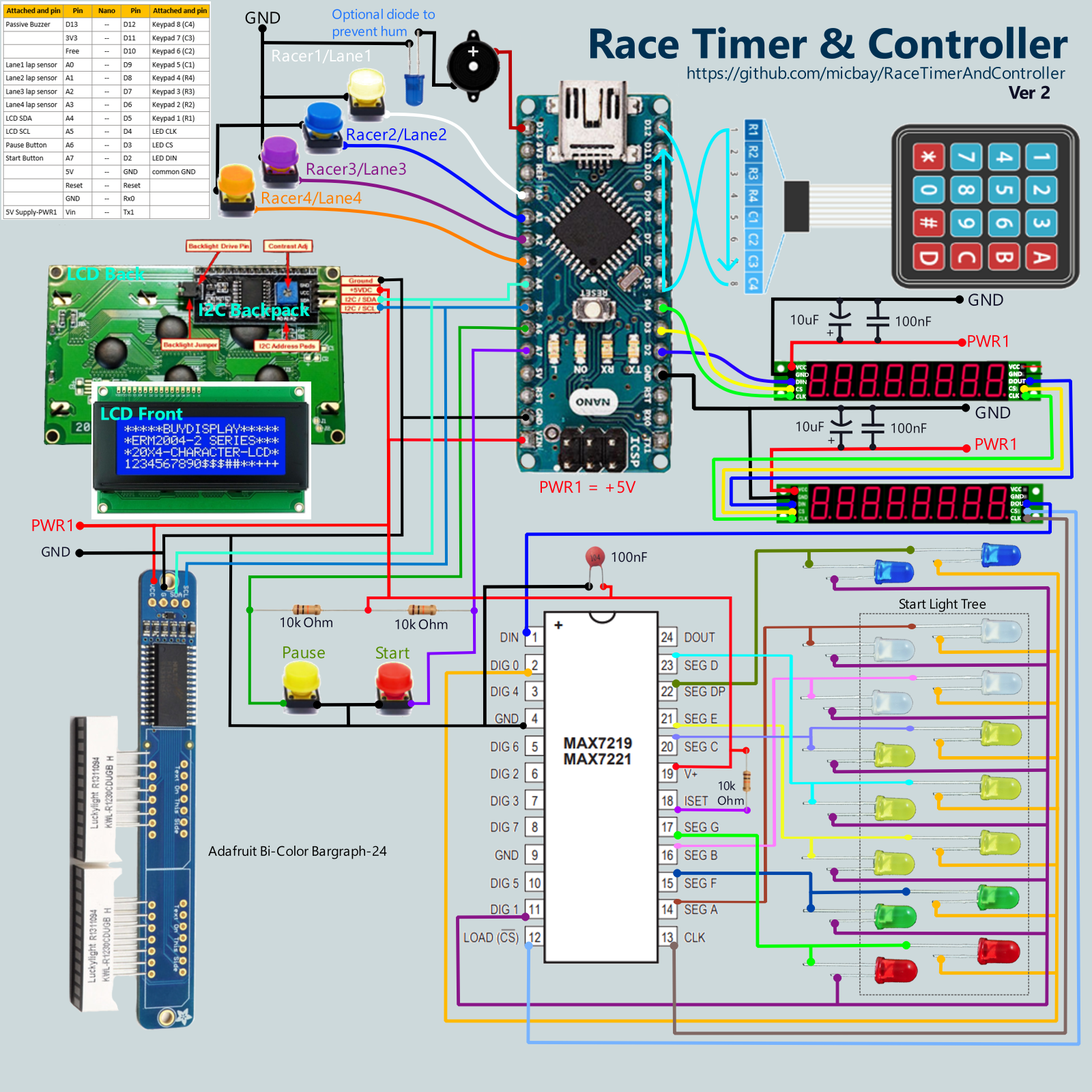
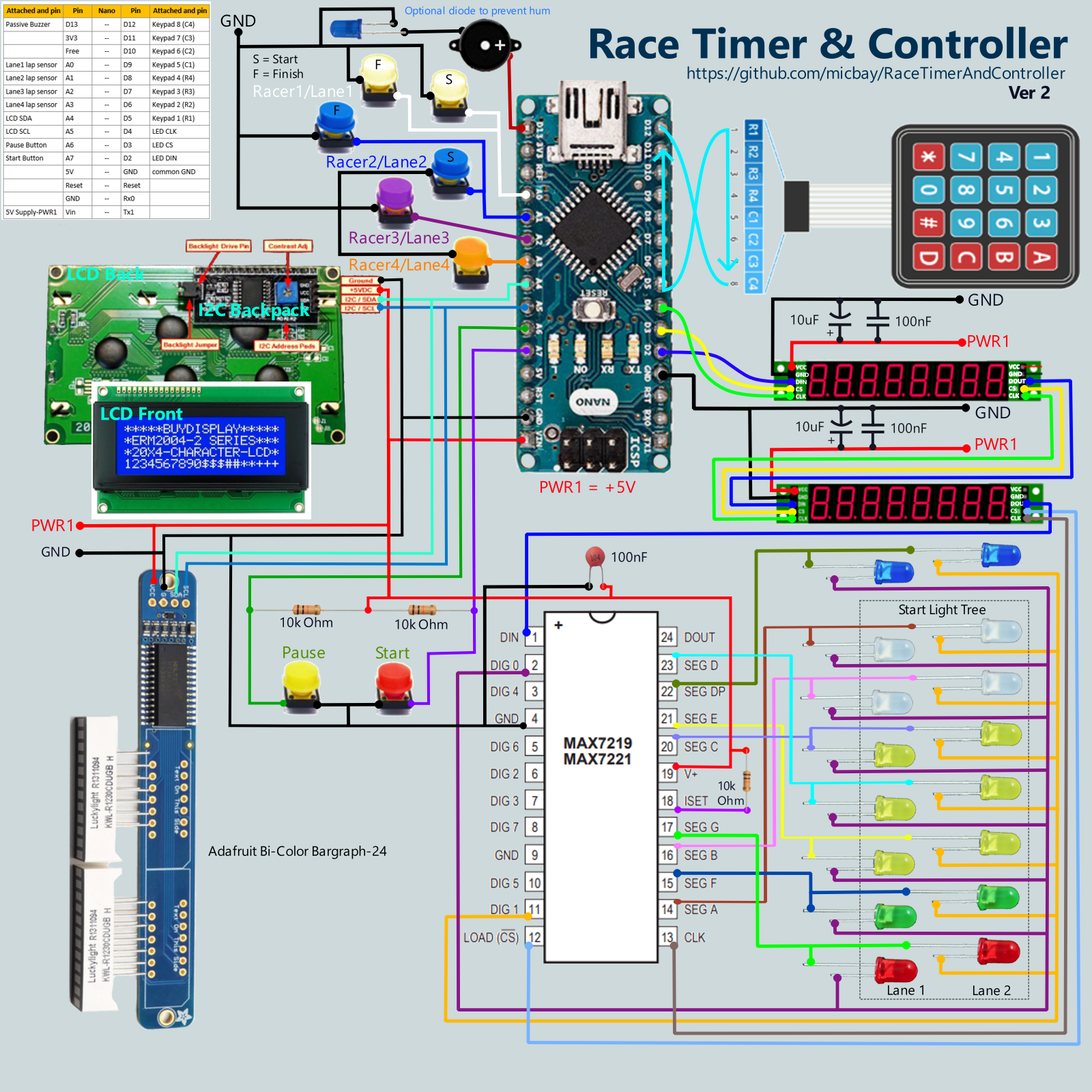
Updates to the readme documentation to better support new V2 features.

diff --git a/README.md b/README.md
@@ -10,17 +10,18 @@ NOTE: the video demo is of an earlier version of the system. With the release of
 1. [Introduction](#introduction)
     - [Prerequisites](#prerequisites) 
 2. [Hardware Configuration](#hardware-configuration)
-    - [Wiring Diagram](#wiring-diagram)
     - [Pin Out for Arduino Nano](#pinout-for-wiring-arduino-nano)
+    - [Wiring Diagram](#wiring-diagram)
     - [Adjustments for Using ATMega2560 Based Arduino Instead](#changes-if-using-atmega2560-microcontroller-based-module)
 3. [Software Configuration](#software-configuration)
 4. [The Main Display (LCD2004 + I2C Backpack)](#main-display)
     - [Creating Custom Characters](#custom-characters)
 5. [Racer Lap Timers (8-digit, 7-seg LED Bar)](#lap-timers)
-6. [DIY MAX7219 Based Start Light Tree](#diy-max7219-based-start-light-tree)
+    - [ Customization of LedControl library ](#customization-of-the-ledcontrol-librarys-character-table) - to display certain missing characters on 7-seg LED digits, replace `LedControl` library character table with an [updated table](#updated-chartable-to-replace-the-one-found-in-ledcontrolh).
+6. [DIY MAX7219 Start Light Tree](#diy-max7219-start-light-tree)
 7. [Adafruit Bi-Color Bargraph-24 as a Start Light](#adafruit-bi-color-bargraph-24-as-a-start-light)
 8. [The Keypad](#the-keypad)
-9. [Lap/Gate Sensing](#gate-sensing)
+9.  [Lap/Gate Sensing](#gate-sensing)
 10. [Sensor Options](#sensor-options)
 11. [Analog Pause and Start Buttons](#analog-pause--start-buttons)
 12. [Playing Audio](#playing-audio)
@@ -76,15 +77,15 @@ The parts required for the base system are listed below. These will support all 
 - Passive Buzzer or speaker
   - The 7-seg LEDs induced a hum on my buzzer, I used a diode on one lead to eliminate it.
 - 2-4 Analog or digital lap sensors/switches/buttons, 1 for each lane.
-    - (optional) +2 drag race finish sensors - Drag racing can be setup to use just a finish sensor, however, to support the default start & finish drag sensing, add 2 more sensors that will share the same pins as the start sensors for lanes 1 & 2.
+    - (optional) +2 drag race finish sensors - Drag racing can be setup to use just a finish sensor, however, to support the default start & finish drag sensing, add 2 finish sensors that will share the same pins as the start sensors for lanes 1 & 2.
 - 2 momentary switches for a 'Pause' and optional 'Start' button.
-  - 10k Ohm Pull-Up resistor to adapt button for analog input on A6
+  - 10k Ohm Pull-Up resistor for each analog input (button) on `A6` and/or `A7`.
 - Jumper leads to wire connections between peripherals & Arduino
 
-### **Supported Start Light Configurations**
+## Supported Start Light Configurations
 Starting with Ver2.0, this controller will support using an Adafruit Bi-color Bargraph-24, and/or, a custom built LED light tree that can be assembled using standard LED components and a MAX7219 serial dirver.
 
-### Custom Start Light Tree Parts
+### DIY MAX7219 Light Tree Parts
 These are all the parts required to build a custom start light tree. For further details, see section: [DIY MAX7219 Based Start Light Tree](#diy-max7219-based-start-light-tree).
 - [MAX7219 Serial LED driver chip](https://www.amazon.com/Bridgold-MAX7219CNG-MAX7219-Serially-Interfaced/dp/B0BK6XC4P8/ref=sr_1_3?keywords=max7219&sr=8-3) - ([datasheet](https://www.analog.com/media/en/technical-documentation/data-sheets/MAX7219-MAX7221.pdf)) same chip used by the pre-packaged LED bars.
 - 4 White LEDs
@@ -460,7 +461,7 @@ To edit the displayed character shape, we can edit the code value of the corresp
 |---|--|
 | <img style="width:400px" src="Images/7-seg-digit-mapping-Edemo.png" /> | The requested character's [ASCII Value](https://www.ascii-code.com/) determines the index of the array, `charTable[]`, that has the code value, indicating which segments to light up, to draw the character. <br> For example, to set what is drawn when instructing the LED to draw a capital 'E', we look up its ASCII value, which is `69`. Then go to the value at `charTable[69]`, and set the code value to **`B01001111`**.  <br> Following the format, `B0abcdefg`, this will instruct segments a, d, e, f, and g to turn on. |
 
-### **charTable[] from LedControl.h (modified)**
+### **Updated `charTable[]` to Replace the One Found in `LedControl.h`**
 ```cpp
 const static byte charTable [] PROGMEM  = {
   //00  0         1         2          3        4         5         6         7
@@ -498,27 +499,41 @@ const static byte charTable [] PROGMEM  = {
 
 <br>
 
-# **DIY MAX7219 Based Start Light Tree**
+# **DIY MAX7219 Start Light Tree**
 This project supports using a custom MAX7219 based, LED tree as a start light for circuit style, and drag style racing. By using a MAX7219 we keep this tree compatible with the SPI bus used by the 7-segment display chain, and thus will require no extra pins to integrate into the system.
 
-The [Wiring Diagram](#wiring-diagram) for this project illustrates the wiring of this start tree for a 2 racers/lane track. If setting up a system with a different number of lanes, make sure the MAX start tree is the last device in the Racer timer LED display chain. The controller will assume that there is a timer display for each racer defined by the `LANE_COUNT` setting. If the system lane count is 3 or 4, but there are only 2 timer displays, and then the start tree, the start tree will light according to an expected 3rd racer timer display, instead of the intended pre-start countdown light.
+The project [Wiring Diagram](#wiring-diagram) includes the wiring layout for this start tree, and its integration into a 2 racer/lane track. If setting up a system with a different number of lanes, make sure this, MAX7219 start tree, is the last device in the Racer timer LED display chain. The controller will assume that there is a timer display for each racer defined by the `LANE_COUNT` setting. If the system lane count is 3 or 4, but there are only 2 timer displays, and then the start tree, the start tree will light according to an expected 3rd racer timer display, instead of the intended pre-start countdown light.
 
-The start tree consists of 8 LEDs for each lane. From top to bottom should be wired 7 pairs, starting with 2 white LEDs to indicate Pre-Stage, and Staged phases of a race, then 3 amber LEDs that light up for the final 3 intervals before the race start, followed by a single green LED that lights upon start. Finally a red LED pair ends the column that alerts which lane triggered a fault. 2 additional blue LEDs can be wired that indicate which lane is the winner in a drag race. By default the timing of the interval for a **circuit race** pre-start, is **1.0 sec**, and for a **drag race**, the pre-start intervals change every **0.5 sec**.
+## **MAX7219 Start Light Pinout**
+The start tree consists of 8 LEDs for each lane. The traditional assembly orients them into two columns of 7 lights, arranged in order of the pinout diagram below. Two additional blue (or any other desired color) LEDs can be wired as drag race 'winner' indicators. These could be added to the start light tree, or placed at the finish line.
 
-See the [Drag Racing Start Light Indicator](#drag-race-start-light-indicators) section for illustrations of the described setup.
+Order | Indicator | color |Lane 1+(long) |Lane 1-(short) |Lane 2+(long) |Lane 2-(short)  
+---|-------------|-------|-----------|-----------|-----------|---
+1  | Pre-Stage   | White | 14 (segA) | 2 (dig0)  | 14 (segA) | 11 (dig1)
+2  | Staged      | White | 16 (segB) | 2 (dig0)  | 16 (segB) | 11 (dig1) 
+3  | Interval 1  | Amber | 20 (segC) | 2 (dig0)  | 20 (segC) | 11 (dig1) 
+4  | Interval 2  | Amber | 23 (segD) | 2 (dig0)  | 23 (segD) | 11 (dig1) 
+5  | Interval 3  | Amber | 21 (segE) | 2 (dig0)  | 21 (segE) | 11 (dig1) 
+6  | Start       | Green | 15 (segF) | 2 (dig0)  | 15 (segF) | 11 (dig1) 
+7  | Fault       | Red   | 17 (segG) | 2 (dig0)  | 17 (segG) | 11 (dig1) 
+NA | Winner      | Blue  | 22 (DP)   | 2 (dig0)  | 22 (DP)   | 11 (dig1) 
 
-On bootup, and while in the `Menu` state, the 3 yellow pre-start, interval lights will be lit, indicating an idle system.
+A **100nF** capacitor should be added across the V+ and GND to help mitigate electromagnetic noise effects. If lights are flickering, consider also adding a 10uF, polarized capacitor as well.
+
+A **10kOhm** resistor is added between the Iset pin and V+ to limit the peak current through the LED segments. In effect this will also control brightness.
+
+On bootup, and while in the `Menu` state, the 3 yellow pre-start, interval lights will be lit, indicating an idle system. See the [Racing](#racing) section for more details of light tree indicator states.
 
 ![MAX Start Light](Images/MAX_LED_Start_Tree-full-w600px.png))
 
 <br>
 
 # **Adafruit Bi-Color Bargraph-24 as a Start Light**
-In place of, or addition to, a MAX7219 tree, this project also supports the use of an [Adafruit Bi-Color Bargraph-24, With I2C backpack kit](https://www.adafruit.com/product/1721) as a startlight. This start light is I2C compatible, and as such, can share the same pins as the main LCD display.
+In place of, or addition to, a MAX7219 tree, this project also supports the use of an [Adafruit Bi-Color Bargraph-24, With I2C backpack kit](https://www.adafruit.com/product/1721) as a start light. This start light is I2C compatible, and as such, can share the same pins as the main LCD display.
 
 The project [Wiring Diagram](#wiring-diagram) illustrates the Bargraph integration.
   
- - This is an I2C compatible, fully assembled LED light bar with 24 segments. Each segment has a Green, and a Red, LED, which can be lit to create red, yellow, or green.
+ - This is an I2C compatible, fully assembled, LED light bar with 24 segments. Each segment has a green, and a red, LED, which can be lit to create red, yellow, or green.
 
 ![Bootup Idle Bargraph-24](Images/Adafruit_Bargraph_FullAssy_800x100.png)
 
@@ -598,6 +613,7 @@ This project was originally designed for slot car racing, and as such, is a lane
 When a trigger occurs on a signal pin, a special immediately executing interrupt function, the `ISR()` will run. Within this function, the game controller will read, from the hardware registry, a single byte that represents the trigger state of every pin among an associated block of pins.
 
 In the case of the Arduino Nano, we are using a physical block of pins called `Port C`, that includes analog pins `A0-A3`, and whose state are represented by the registry byte, `PCINT1_vect`. This is how the game controller will determine when laps have been completed and which lanes, which triggers are related to.
+
 > ***Avoiding Unwanted Triggers*** - Because an interrupt is triggered by any measurable signal change, it's important that care is taken to minimize the chance that stray electromagnetic interference could induce a false trigger signal, unrelated to a valid lap completion.
 > 
 > Folks having issues with false triggers can try some of the following techniques, that are commonly used to reduce, or eliminate, electrical noise from a system:
@@ -608,6 +624,14 @@ In the case of the Arduino Nano, we are using a physical block of pins called `P
 >- [Using ferrites](https://article.murata.com/en-us/article/basics-of-noise-countermeasures-lesson-8)
 >- Use [shielded leads](https://www.azosensors.com/article.aspx?ArticleID=724) (ideally shielding is grounded)
 >- Make sure everything is well grounded, and isolated from, radiated and conducted noise, but [avoid ground loops](https://en.wikipedia.org/wiki/Ground_loop_(electricity)).
+
+## **Drag Racing Sensor Setup**
+By default the controller is configured to expect both a start and finish sensor for each drag race lane. The start sensor is used to detect false starts, and the finish sensor used to detect the winner. The start and finish sensors for a given lane should share the same input pin on the Arduino.
+
+<img src="Images/Drag_Trigger_Diagram_Isolated.png" alt="Drag Trigger Diagram" width="600px">
+
+For users who only have 1 set of sensors, the system can be configured to support drag racing with finish line sensors only. If set for finish sensors only, false starts will not be detectable.
+- Set `SINGLE_DRAG_TRIGGER` to be `true` in `localSettings.h` to configure the controller for finish sensor only, drag racing.
 
 ## **Relationship Between Racers/Lanes and Interrupt Hardware**
 For the [ATMega328](https://www.microchip.com/en-us/product/ATmega328) based Nano we have chosen to use pins `A0-A3` as the physical wire inputs for the lap trigger signals representing racers/lanes 1-4. A `lanes[]` array constant will be used to map the association of physical hardware pins with the Racer/Lane they will represent.
@@ -701,7 +725,7 @@ Because these interrupts will trigger on each, and every, signal change event, w
 
 To filter extra bounce triggers, we set a debounce time after the initial detection, within which any re-triggers on the same pin are ignored. Each lap trigger pin has its own timing array, so while the debounce period may be active for one pin causing it to be ignored, another may be newly triggered and will be accepted.
 
-Currently the default debounce is set to 1sec (1000ms). This is a bit excessive for a debounce period, but laps are still much longer than this. If this time is an issue, it can be changed by, uncommenting, and then editing the `DEBOUNCE` setting in the `localSettings.h` file.
+Currently the default debounce is set to 500ms. If this time is an issue, it can be changed by, uncommenting, and then editing the `DEBOUNCE` setting in the `localSettings.h` file.
 
 > If the `localSettings.h` file does not exist, create one, by copying `example.localSettings.h` and renaming it to `localSettings.h`.
 
@@ -845,13 +869,7 @@ ISR (PCINT1_vect) {   // for Nano
 # **Sensor Options**
 In the breadboard layout and wiring diagram push buttons are used to simulate lap triggers. In practice, since essentially, any signal change, on the pin will be considered a gate trigger, a countless number of analog or digital triggering methods can be used. Anything from a homemade circuit completion trigger switch, to a motion detection IC, can be adapted for use with this project.
 
-> ## **Drag Racing Sensor Setup**
-> By default the controller is configured to expect both a start and finish sensor for each drag race lane. The start sensor is used to detect false starts, and the finish sensor used to detect the winner. The start and finish sensors for a given lane should share the same input pin to the same Arduino.
-
-> For users who only have 1 set of sensors, the system can be configured to support drag racing with finish line sensors only. If set for finish sensors only, false starts will not be detectable.
-> - Set `SINGLE_DRAG_TRIGGER` to be `true` in `localSettings.h` to configure the controller for finish sensor only, drag racing.
-
-It's not possible to review possible sensor options. However, to provide some starting points, below is a brief list of potential switch options to consider or adapt.
+It's not possible to review all potential sensor options. However, to provide some starting points, below is a brief list of potential switch options to consider or adapt.
 
 The [Drag-It-Anywhere track sensor page](https://dragitanywhere.com/track-sensors/) is also a good place to start.
 
@@ -864,15 +882,13 @@ The [Drag-It-Anywhere track sensor page](https://dragitanywhere.com/track-sensor
 
 <table>
   <tr>
-    <th style="width:35%"></th>
+    <th style="width:25%"></th>
   </tr>
   <tr>
     <td>
-      Adafruit Bargraph fault on lane 2
       <img src="Images/submini_body.png"  alt="1" Width="500px">
     </td>
     <td>
-      MAX-LED Tree fault on lane 2, just after 3rd amber interval
       <img src="Images/submini_schematic.png"  alt="1">
     </td>
   </tr>
@@ -881,6 +897,20 @@ The [Drag-It-Anywhere track sensor page](https://dragitanywhere.com/track-sensor
 <!-- ![Rigged Lap Counter](Images/submini_body.png)
 ![Rigged Lap Counter](Images/submini_schematic.png) -->
 ![Rigged Lap Counter](Images/submini_specs.png)
+
+
+## Photodetection
+> This approach can be handled in a number of ways, but consists of placing a light sensor in the track such that it becomes shaded by a car passing over it. This arrangement can be setup to sense ambient light, or specifically infrared. Usually a flood light, emitting the sensed wavelengths, is used to illuminate the sensor areas, to maximize consistency of lighting conditions.
+>
+> **Photoresistor** - a photoresistor component can be wired to trigger a lap on any measurable change in ambient light intensity. With interrupts, this might be tricky to calibrate such that changes in room lighitng are not mistaken for a passing car. Adding a lamp or spotlight flooding the sensor region can mitigate such issues.
+
+> **IR sensor** - An IR photodetection approach takes exactly the same principle, and parts, used by pre-assmbled IR sensor modules ([example1](https://circuitdigest.com/microcontroller-projects/interfacing-ir-sensor-module-with-arduino), [example2](https://components101.com/sensors/ir-sensor-module)), except instead of having the emitter and receiver next to each other, the emitter is a seperate flood light, and the sensor is placed into the track. Trackmate sells an assembled [IR Flood Light](https://trackmateracing.com/shop/en/lap-counter-parts/221-1241-infrared-flood-bar-diy.html#/153-flood_bar_length-6_inches_152mm) and [IR sensor components](https://trackmateracing.com/shop/en/lap-counter-parts/19-infrared-sensors.html), that use this technique.
+> 
+> >
+> | | |  
+> |---|---|
+> |Photoresistors on ([Adafruit](https://www.adafruit.com/product/161), [Amazon](https://www.amazon.com/Photoresistor/s?k=Photoresistor), [digikey](https://www.digikey.com/en/products/filter/optical-sensors-photo-detectors-cds-cells/540)) | [IR emitter and sensor kit](https://www.amazon.com/Emitter-Receiver-VS1838B-Infrared-Raspberry/dp/B07TLBJR5J/ref=sr_1_13?keywords=ir+sensor&sr=8-13)|
+> | <img src="Images/photoresistor.png" alt="photoresistor" height="200px"> | <img src="Images/IR_sensor.png" alt="IR Sensor" height="200px"> |
 
 
 ## Magnetic Detection Switches
@@ -910,53 +940,65 @@ In the image below, two base paper clips, are wired with black leads to ground. 
 <br>
 
 # **Analog Pause & Start Buttons**  
-This project includes two analog buttons that can be used to manage an active race. One button is designated as a `Pause` button, and the other as a `Start` button. These simple switches provide a seperation of race control from the main keypad, facilitating a more flexible system setup.
+This project includes two analog buttons that can be used to manage an active race. One button is designated as a `Pause` button, and the other as a `Start` button. These behave as simple switches, and provide a seperation of race control from the main keypad, facilitating a more flexible system setup.
 ### **The Pause Button**
-The `Pause` button is used to pause and restart an active race, and as an exit button, alternative to the `*` key, from the `PreStage` or `Finished` states, or to clear a `Fault`. 
+The `Pause` button is used to pause and restart an active race, and as an exit button alternative, to using the `*` key, to exit the `PreStage` or `Finished` states. `Pause` can also be pressed to clear a `Fault`. 
 - During a live race, pressing the `Pause` button will put the race into the `Paused` state, suspending race activity.
 - While in a `Paused` state, pressing the `Pause` button will return to the active `Race` state, or `PreStart` countdown depending on the system configuration.
 - Pressing `Pause` while in the `Staging` state (ie Pre-Stage race phase), will exit the race and return the system to the `Menu` state.
-- Pressing `Pause` while in a `Fault` state will clear the fault and return the system to the `Staged` state.
+- Pressing `Pause` while in a `Fault` state will clear the fault and return the system to the `Staging` state.
 - After a drag race heat is finished, pressing `Pause` from the drag heat result screen, will exit the race and return the system to the `Menu` state.
 
 ### **The Start Button**
 The `Start` button's primary function is to provide a means to initiate a race start from a location remote from the keypad. This is most useful for a drag race setup where start timing is a critical aspect of the race.
 - Pressing `Start` from the race Pre-Stage screen (ie in the `Staging` state) will initiate a race with the appropriate pre-start countdown.
-- Pressing `Start` while in a `Fault` state will clear the fault and return the system to the `Staged` state.
-- After a drag race heat is finished, pressing `Start` from the drag heat result screen, will return the system to the `Staged` state ready for the next heat.
+- Pressing `Start` while in a `Fault` state will clear the fault and return the system to the `Staging` state.
+- After a drag race heat is finished, pressing `Start` from the drag heat result screen, will return the system to the `Staging` state ready for the next heat.
 
 ## **Using Pins A6 & A7 as Buttons**
-For wiring a `Pause` and `Start` button, the pins we have available are, A6 and A7. Unlink the othe pins we have been using, these pins don't have an internal pull-up resistor built into the Arduino. Also, these pins can only be used as analog inputs.
+For wiring a `Pause` and `Start` button, the pins we have available are, A6 and A7. Unlike the other pins we have been using, these pins don't have an internal pull-up resistor, and they can only be used as analog inputs.
 
-In order to use them as button triggers we must add our own external Pull-Up resistors, as illustrated in the project wiring diagram, and explained in [this article](https://roboticsbackend.com/arduino-input_pullup-pinmode/). Like the keypad, to detect a press we must then pole the buttons to know if they've been pressed. In this case, since we are using analog, our input will not be just HIGH or LOW, but some value between the maximum switch voltage and zero. If the value is lower than a set threshold then we consider it pressed.
+In order to use them as button triggers we must add our own external pull-up resistors, as illustrated in the project wiring diagram, and explained in [this article](https://roboticsbackend.com/arduino-input_pullup-pinmode/). Like the keypad, to detect a press we must pole the buttons to know if they've been pressed. In this case, since we are using analog, our input will not be just HIGH or LOW, but some value between the maximum switch voltage and zero. If the value is lower than a set threshold then we consider it pressed.
 
 ```cpp
+// button pin assignments
 const byte pauseStopPin = PIN_A6;
+const byte startButtonPin = PIN_A7;
+// timestamp marking new press of pause button, used to set start of debounce period.
+unsigned long buttonDebounceMillis = 0;
+
 
 // Generic function to check if an analog button is pressed
-int buttonPressed(uint8_t analogPin) {
-  if (analogRead(analogPin) < 100){
+bool buttonPressed(uint8_t analogPin) {
+
+  unsigned long tempTime = millis();
+
+  // if below analog trigger threshold AND not within debounce time
+  if ((analogRead(analogPin) < 100) && ((tempTime - buttonDebounceMillis) > debounceTime)){
+    // Reset debounce timestatmp
+    buttonDebounceMillis = tempTime;
+    Beep();
     return true;
   }
   return false;
+
 }
 
+
+
 void setup(){
-  --- other code ---
 
   pinMode(pauseStopPin, INPUT);
+  pinMode(startButtonPin, INPUT);
 
-  --- other code ---
 }
 
 void loop(){
-  --- other code ---
   
-  if(buttonPressed){
+  if(buttonPressed(startButtonPin) || buttonPressed(pauseStopPin) ){
     --- do something ---
   }
   
-  --- other code ---
 }
 
 ```
@@ -1375,12 +1417,11 @@ void loop(){
   --- other code ---
 }
 ```
-## **Sources of tone() Array Melodies**  
+## **Sources of RTTTL Song Strings** 
 - [Online List of RTTTL Online Sources](https://www.srtware.com/index.php?/ringtones/findringtones.php)
 - [Picaxe Ringtone Download](https://picaxe.com/rtttl-ringtones-for-tune-command/) - RTTTL zip downloads 10,000+ songs
 - [dglaude/xmas.py](https://gist.github.com/dglaude/71525a07f5e24888a3f098fba3abf29b) - RTTTL Christmas songs
 
-<br>
 
 # **Audio Modes**
 This controller has 3 Audio Modes, providing users the ability to turn on and off the game feedback audio and victory songs.
@@ -1397,6 +1438,8 @@ The default audio mode used on bootup can be changed by editing the `DEFAULT_AUD
 Pressing the `# key` while in the **Menu** state, will stop any music playing. This provides users a way to stop the sample song played during racer selection, and the final racer's victory song after completion of a race, without having to let it play out to the end.
 
 At this time, this will not stop a victory song playing, while the system is in the 'race' state (ie. if all racers have not finished yet), because the keypad is not poled while in this state.
+
+<br>
 
 ---
 # **Race Controller Operation**
@@ -1546,8 +1589,8 @@ After choosing a race from the [Start a Race](#main-menu---c-start-a-race) scree
 
 <table>
   <tr>
-    <td>Bargraph all races types</td>
-    <td>MAX-LED Tree all races types</td>
+    <td>Pre-Stage Bargraph all races types</td>
+    <td>Pre-Stage MAX-LED Tree all races types</td>
   </tr>
   <tr>
     <td> <img src="Images/Adafruit_Bargraph-24_pre-stage_600x125.png"  alt="1"></td>
@@ -1555,11 +1598,11 @@ After choosing a race from the [Start a Race](#main-menu---c-start-a-race) scree
   </tr>
 </table>
 
-- ***Circuit Race Pre-Stage:*** For Lap or Timed races, the racer displays will continue to display the assigned racer names.
+- **Circuit Race Pre-Stage:** For Lap or Timed races, the racer displays will continue to display the assigned racer names.
 
     <img src="Images/RacerLED-Idle_800x100.png" alt="2" width="500px">
 
-- ***Drag Race Pre-Stage:***  For drag racing, the racer displays will switch to using labels **Lane 1** & **Lane 2**.
+- **Drag Race Pre-Stage:**  For drag racing, the racer displays will switch to using labels **Lane 1** & **Lane 2**.
 
     <img src="Images/RacerLED-DragPreStage_800x100.png" alt="2" width="500px">
 
@@ -1611,15 +1654,14 @@ When a race start has been triggered, the pre-start countdown begins. Lap sensor
     </td>
   </tr>
 </table>
-<!-- <img src="Images/ScreenShots/V2_Start_A_Race_1150x400.png"  alt="1" width="600px">
-<img src="Images/ScreenShots/PrestartCountdown.png" alt="2" width="300px"> -->
 
-**Drag Race Pre-Start Countdown:**  For a **Drag** race the pre-start time is randomized to be between 4 and 7 sec. and the remaining time is unknown until the final interval indicators begin to illuminate. However, alerts of 'Ready', 'Set', 'Go!', will be printed to the main LCD in conjunction with the inition of the pre-start countdown, the 1st amber interval, and race start, respectively.
+**Drag Race Pre-Start Countdown -** For a **Drag** race, the pre-start time is randomized and the remaining time is unknown until the final interval indicators begin to illuminate. By default the countdown time is set between 4 and 7 sec, but can be changed by editing the `DRAG_PRESTART_CNTDWN_BASE` and `DRAG_PRESTART_RNDM` parameters in `localSettings.h`.
 
+Though the remaining countdown time is not displayed for a drag race, several alerts, of 'Ready', 'Set', and 'Go!', will be printed to the main LCD in conjunction with the inition of the different phases of a pre-start countdown (ie: being staged, on the 1st amber interval, and finally at race start, respectively).
 
 <table>
   <tr>
-    <td>On initiation of Drag race pre-start </td>
+    <td>On being staged </td>
     <td>On 1st amber interval </td>
     <td>On drag race start </td>
   </tr>
@@ -1639,7 +1681,7 @@ When a race start has been triggered, the pre-start countdown begins. Lap sensor
 
 ### **Pre-Start Countdown Final Intervals**
 In the final seconds of the pre-start countdown, 3 amber indicators will light up in succession.
--  ***Circuit Race Final Intervals:*** For a **Lap** or **Timed** race, the first amber light will illuminate with **3 sec** remaining in the pre-start countdown, changing on a **1.0 sec** intervals.
+-  **Circuit Race Final Intervals** - For a **Lap** or **Timed** race, the first amber light will illuminate with **3 sec** remaining in the pre-start countdown, changing on **1.0 sec** intervals.
 <table>
   <tr>
     <td>
@@ -1686,7 +1728,7 @@ In the final seconds of the pre-start countdown, 3 amber indicators will light u
 </table>
 
 
-- ***Drag Race Final Intervals:*** For a **Drag** race, the first amber light will illuminate with **1.5 sec** remaining in the pre-start countdown, changing on a **0.5 sec** intervals.
+- **Drag Race Final Intervals** - For a **Drag** race, the first amber light will illuminate with **1.5 sec** remaining in the pre-start countdown, changing on **0.5 sec** intervals.
 
 <table>
   <tr>
@@ -1747,7 +1789,7 @@ If a racer crosses the start line before the Pre-Start countdown has finished, a
 
 ---
 ## **During a Race**
-During a race, the controller will monitor lap triggers and update the race state accordigly. The race will continue until a finishing condition is detected or the race is Paused. From the Paused state, a race can either be restarted, or quit, exiting back to the Main Menu.
+During a race, the controller will monitor lap triggers and update the race state accordingly. The race will continue until a finishing condition is detected or the race is `Paused`. From the `Paused` state, a race can either be restarted, or quit, exiting back to the Main Menu.
 
 ### **Circuit Race Live Race Leader Board**
 During a standard **Lap** or **Timed** race, the main LCD will display the elapsed race time, the current 1st-3rd place lap count and racer names, and the current overall fastest lap time and racer who achieved it.
@@ -1755,7 +1797,7 @@ During a standard **Lap** or **Timed** race, the main LCD will display the elaps
 <img src="Images/ScreenShots/LiveLeaderBoard.png"  alt="1" Width="500px">
 
 ### **Live Race Racer Displays**
-During a live race, the 7-segment, racer displays will show the current lap, and lap time for each active racer/lane. If it is a **Lap** or **Timed** race, whenever a racer completes a lap, the just finished lap number & lap time are briefly, "flashed" to the racer display for a couple seconds, before the returning to the running live lap time updates. In a drag race, there is no flash period, and the racer displays will always show the live running/completed heat time for each lane.
+During a live race, the 7-segment, racer displays will show the current lap, and lap time for each active racer/lane. If it is a **Lap** or **Timed** race, whenever a racer completes a lap, the just finished lap number & lap time are briefly, "flashed" to the racer display for a couple seconds, before returning to the running live lap time updates. In a drag race, there is no flash period, and the racer displays will always show the live running/completed heat time for each lane.
 
 <table>
   <tr>
@@ -1803,9 +1845,9 @@ When the controller detects a finishing condition it will process the finishing 
   </tr>
 </table>
 
-**Drag Race Heats:** - When a drag race is over, the times for each lane are displayed on the main LCD, with an indication of the winner. To facilitate a quick cycling of heats, users can navigate directly to the pre-stage or the next heat, or exit to the **Main Menu**.
+**Drag Race Heats:** - When a drag race is over, the times for each lane are displayed on the main LCD, with an indication of the winner. To facilitate a quick cycling of heats, users can navigate directly to the **Pre-Stage** of the next heat, or exit to the **Main Menu**.
 
-- Pressing the `#` key, or the optional, analog `Start` button, will navigate the system directly to the **Pre-Stage** for the next heat.
+- Pressing the `#` key, or the optional, analog `Start` button, will navigate the system directly to the **Pre-Stage** of the next heat.
 - Pressing the `*` key, or the analog `Pause` button, will exit back to the **Main Menu**.
 <img src="Images/V2_DragRace_Winner_Lane2_1150x400.png"  alt="1" Width="500px">
 
